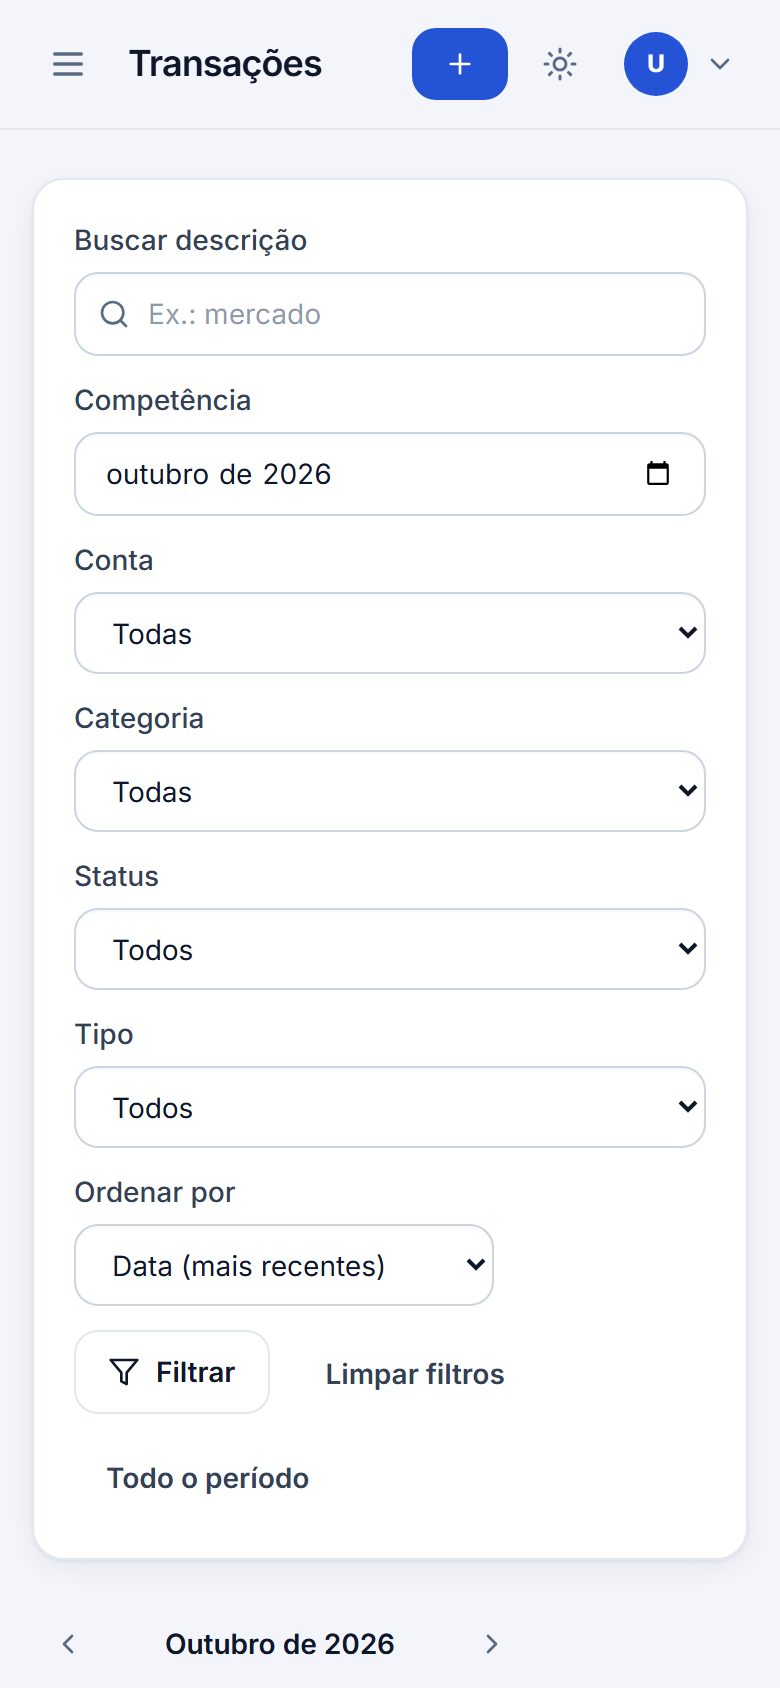
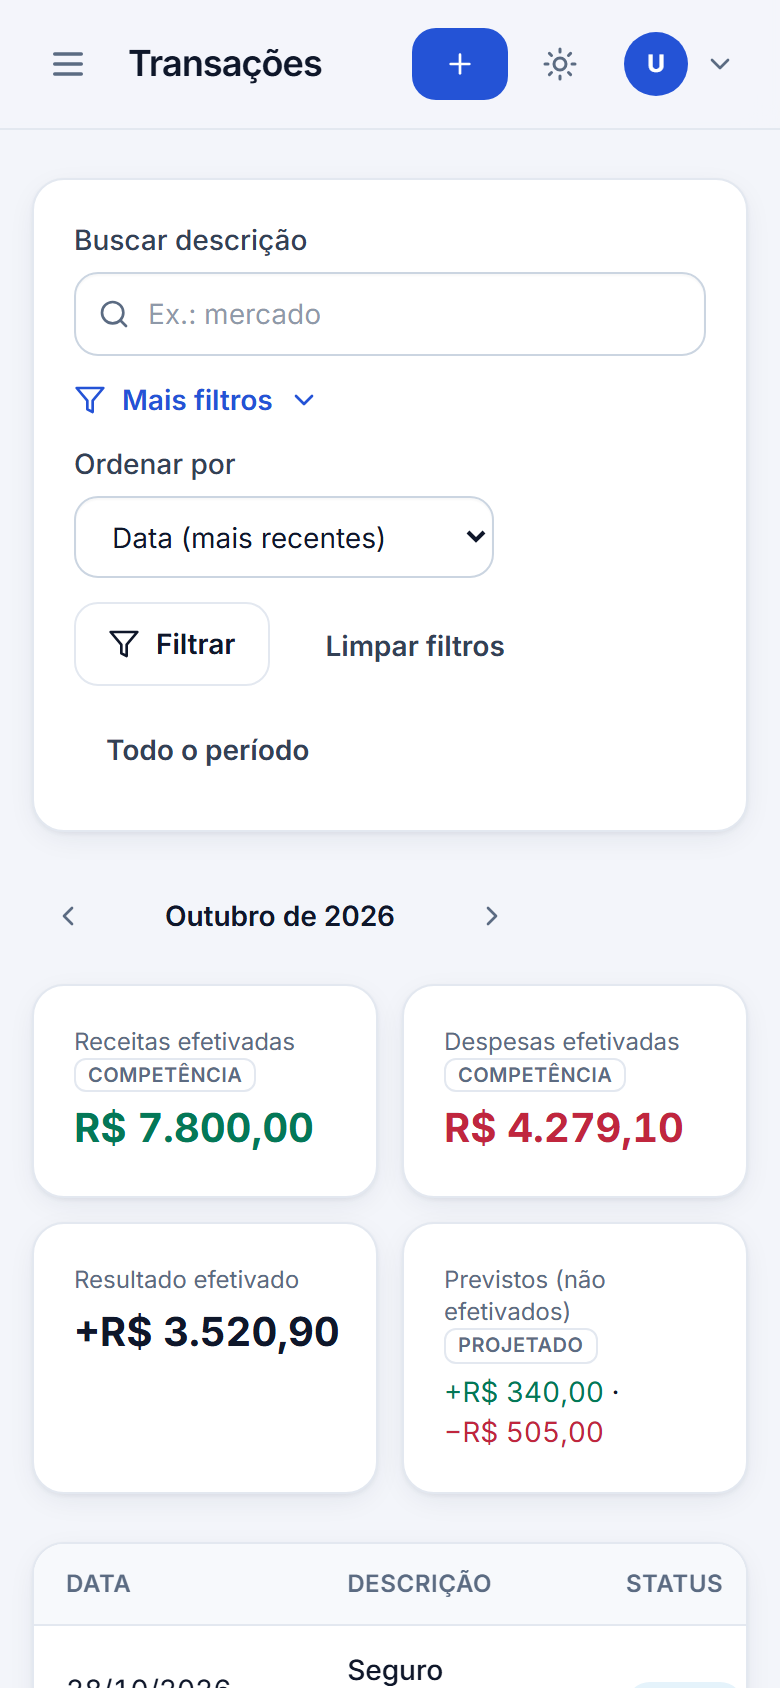
Critérios de aceitação verificados: e2e de recuperação de senha, varredura de links, filtros recolhíveis no mobile, healthcheck do scheduler

diff --git a/app/templates/partials/transactions/list.html b/app/templates/partials/transactions/list.html
@@ -15,7 +15,7 @@
     <span class="htmx-indicator text-xs text-muted" aria-hidden="true">Atualizando…</span>
   </div>
 
-  <section class="mb-6 grid gap-4 sm:grid-cols-2 xl:grid-cols-4" aria-label="Totalizadores do filtro">
+  <section class="mb-6 grid grid-cols-2 gap-3 sm:gap-4 xl:grid-cols-4" aria-label="Totalizadores do filtro">
     <div class="card card-pad"><p class="text-xs text-muted">Receitas efetivadas {{ regime("competencia") }}</p><p class="num mt-1 text-xl font-bold text-positive">{{ totals.income_settled|brl }}</p></div>
     <div class="card card-pad"><p class="text-xs text-muted">Despesas efetivadas {{ regime("competencia") }}</p><p class="num mt-1 text-xl font-bold text-negative">{{ totals.expense_settled|brl }}</p></div>
     <div class="card card-pad"><p class="text-xs text-muted">Resultado efetivado</p><p class="num mt-1 text-xl font-bold {{ 'text-negative' if totals.net_settled < 0 else 'text-fg' }}">{{ totals.net_settled|brl(True) }}</p></div>

diff --git a/app/templates/pages/transactions/index.html b/app/templates/pages/transactions/index.html
@@ -17,6 +17,9 @@
       <input id="flt-q" name="q" value="{{ raw.q or '' }}" class="input pl-9" placeholder="Ex.: mercado" maxlength="100" type="search">
     </div>
   </div>
+  <details class="group sm:col-span-2 xl:col-span-4" open data-collapse-mobile>
+    <summary class="flex cursor-pointer list-none items-center gap-2 text-sm font-semibold text-primary sm:hidden">{{ icon("filter") }} Mais filtros {{ icon("chevron-down", "size-4 transition group-open:rotate-180") }}</summary>
+    <div class="mt-3 grid gap-3 sm:mt-0 sm:grid-cols-2 xl:grid-cols-4">
   <div>
     <label class="label" for="flt-month">Competência</label>
     <input id="flt-month" name="month" type="month" class="input" value="{{ month.iso() if month else '' }}">
@@ -51,6 +54,8 @@
       </select>
     </div>
   </div>
+    </div>
+  </details>
   <div class="flex flex-wrap items-end gap-3 sm:col-span-2 xl:col-span-4">
     <div>
       <label class="label" for="flt-sort">Ordenar por</label>

diff --git a/app/static/js/app.js b/app/static/js/app.js
@@ -269,6 +269,10 @@
 
   function initAll(root) { syncToggles(root); initCharts(root); }
   document.addEventListener("DOMContentLoaded", () => {
+    // Filtros avançados recolhidos em telas pequenas (abertos no desktop).
+    if (window.matchMedia("(max-width: 639px)").matches) {
+      document.querySelectorAll("details[data-collapse-mobile]").forEach((d) => d.removeAttribute("open"));
+    }
     initAll(document);
     const flash = document.getElementById("flash");
     if (flash) toast(flash.content.textContent.trim(), flash.dataset.kind);

diff --git a/tests/e2e/test_smoke.py b/tests/e2e/test_smoke.py
@@ -26,7 +26,7 @@ pytestmark = [
 ]
 
 
-def _verification_link(email: str, timeout: float = 15) -> str:
+def _link_from_mail(email: str, path: str, timeout: float = 15) -> str:
     deadline = time.monotonic() + timeout
     while time.monotonic() < deadline:
         with urllib.request.urlopen(
@@ -38,11 +38,11 @@ def _verification_link(email: str, timeout: float = 15) -> str:
                 f"{MAILPIT_URL}/api/v1/message/{messages[0]['ID']}", timeout=5
             ) as resp:
                 body = json.loads(resp.read())["Text"]
-            match = re.search(r"(https?://\S+/verificar-email\?token=[A-Za-z0-9_-]+)", body)
+            match = re.search(r"(https?://\S+" + re.escape(path) + r"\?token=[A-Za-z0-9_-]+)", body)
             if match:
                 return match.group(1)
         time.sleep(0.5)
-    raise AssertionError("e-mail de verificação não chegou ao Mailpit")
+    raise AssertionError(f"e-mail com {path} não chegou ao Mailpit")
 
 
 def test_register_verify_login_and_register_expense() -> None:
@@ -68,7 +68,9 @@ def test_register_verify_login_and_register_expense() -> None:
         page.click("button[type=submit]")
         expect(page.get_by_text("Verifique sua caixa de entrada")).to_be_visible()
 
-        link = _verification_link(email).replace("http://localhost:8000", BASE_URL or "")
+        link = _link_from_mail(email, "/verificar-email").replace(
+            "http://localhost:8000", BASE_URL or ""
+        )
         page.goto(link)
         page.click("button[type=submit]")
         expect(page.get_by_text("E-mail confirmado")).to_be_visible()
@@ -107,3 +109,66 @@ def test_register_verify_login_and_register_expense() -> None:
         expect(page.get_by_text("R$ 876,55").first).to_be_visible()
         browser.close()
     assert not console_errors, console_errors
+
+
+def test_password_reset_via_smtp_revokes_session_and_token_is_single_use() -> None:
+    from playwright.sync_api import expect, sync_playwright
+
+    email = f"e2e-reset-{uuid.uuid4().hex[:8]}@example.com"
+    old_password = "Senha-Antiga-" + uuid.uuid4().hex[:8]
+    new_password = "Senha-Nova-" + uuid.uuid4().hex[:8]
+    with sync_playwright() as p:
+        browser = p.chromium.launch()
+        page = browser.new_page(locale="pt-BR")
+        page.goto(f"{BASE_URL}/cadastro")
+        page.fill("#f-full_name", "Teste Recuperação")
+        page.fill("#f-email", email)
+        page.fill("#f-password", old_password)
+        page.fill("#f-password_confirm", old_password)
+        page.check("input[name=accept_privacy]")
+        page.click("button[type=submit]")
+        page.goto(_link_from_mail(email, "/verificar-email"))
+        page.click("button[type=submit]")
+
+        page.goto(f"{BASE_URL}/recuperar-senha")
+        page.fill("#f-email", email)
+        page.click("button[type=submit]")
+        expect(page.get_by_text("Se houver uma conta com esse e-mail")).to_be_visible()
+        reset_link = _link_from_mail_newest(email, "/redefinir-senha")
+        page.goto(reset_link)
+        page.fill("#f-password", new_password)
+        page.fill("#f-password_confirm", new_password)
+        page.click("button[type=submit]")
+        expect(page.get_by_text("Senha redefinida")).to_be_visible()
+
+        page.goto(reset_link)  # token de uso único
+        expect(page.get_by_text("Link inválido")).to_be_visible()
+
+        page.goto(f"{BASE_URL}/login")
+        page.fill("#f-email", email)
+        page.fill("#f-password", old_password)
+        page.click("button[type=submit]")
+        expect(page.get_by_text("E-mail ou senha inválidos.")).to_be_visible()
+        page.fill("#f-password", new_password)
+        page.click("button[type=submit]")
+        page.wait_for_url("**/app")
+        browser.close()
+
+
+def _link_from_mail_newest(email: str, path: str, timeout: float = 15) -> str:
+    deadline = time.monotonic() + timeout
+    while time.monotonic() < deadline:
+        with urllib.request.urlopen(
+            f"{MAILPIT_URL}/api/v1/search?query=to:{email}", timeout=5
+        ) as resp:
+            messages = json.loads(resp.read())["messages"]
+        for message in messages:  # mais recente primeiro
+            with urllib.request.urlopen(
+                f"{MAILPIT_URL}/api/v1/message/{message['ID']}", timeout=5
+            ) as resp:
+                body = json.loads(resp.read())["Text"]
+            match = re.search(r"(https?://\S+" + re.escape(path) + r"\?token=[A-Za-z0-9_-]+)", body)
+            if match:
+                return match.group(1)
+        time.sleep(0.5)
+    raise AssertionError(f"e-mail com {path} não chegou ao Mailpit")

diff --git a/tests/e2e/conftest.py b/tests/e2e/conftest.py
@@ -1,0 +1,23 @@
+"""Isolamento dos testes ponta a ponta: zera os contadores de rate limit do Redis de DEV.
+
+Sem isso, execuções repetidas esbarram (corretamente) no limite de cadastros por IP.
+"""
+
+from __future__ import annotations
+
+import os
+from collections.abc import Iterator
+
+import pytest
+
+
+@pytest.fixture(autouse=True)
+def _reset_rate_limits() -> Iterator[None]:
+    url = os.environ.get("E2E_REDIS_URL", "redis://127.0.0.1:6379/0")
+    if os.environ.get("E2E_BASE_URL"):
+        import redis
+
+        client = redis.Redis.from_url(url)
+        for key in client.scan_iter("rl:*"):
+            client.delete(key)
+    yield

diff --git a/PLANO_EXECUCAO.md b/PLANO_EXECUCAO.md
@@ -97,7 +97,44 @@ Legenda: `[x]` concluído e validado por teste/execução · `[~]` parcial · `[
 Todas as fases concluídas e validadas: 255 testes + 1 e2e (Playwright) aprovados; ruff e mypy --strict limpos;
 imagem Docker validada em modo produção; backup/restore testados; documentação em README.md e docs/.
 
-## 4. Limitações conhecidas / bloqueios
+## 4. Critérios de aceitação final (seção 31) — verificados em 2026-10-19
+
+| Critério | Status | Evidência |
+|---|---|---|
+| A aplicação inicia corretamente | ✅ | `docker compose up -d` → web `healthy`; `/health/ready` ok (banco + Redis); modo produção validado em container |
+| O banco é criado pelas migrations | ✅ | `tests/conftest.py` recria o schema via Alembic a cada execução; upgrade → downgrade → upgrade em banco vazio |
+| Usuários criam contas e autenticam | ✅ | `integration/test_auth_flow.py`; e2e `test_register_verify_login_and_register_expense` |
+| Recuperação de senha funciona no ambiente configurado | ✅ | e2e `test_password_reset_via_smtp_revokes_session_and_token_is_single_use` (SMTP real → Mailpit) |
+| Isolamento de dados testado | ✅ | `security/test_access_control.py` (web), `integration/test_api.py` (API), relatórios, importação e cartões |
+| Contas financeiras funcionam | ✅ | `integration/test_ledger_rules.py`, `test_finance_web.py` |
+| Receitas e despesas alteram o saldo corretamente | ✅ | `test_settled_income_and_expense_change_balance` + reconciliação do saldo com o histórico |
+| Transferências são atômicas | ✅ | `test_transfer_insufficient_funds_rolls_back_both_legs`, concorrência de transferências opostas |
+| Estornos mantêm consistência | ✅ | `test_cancel_settled_reverses_and_keeps_history`, `test_transfer_cancel_reverts_both_sides`, estorno de cartão |
+| Categorias funcionam | ✅ | `integration/test_categories.py` |
+| Orçamentos com cálculos corretos | ✅ | `integration/test_analytics_budgets.py` (80/100%, previsto separado, estorno, parcelas de cartão) |
+| Dashboard com dados reais | ✅ | `test_dashboard_renders_with_data_and_charts`; screenshots reais com o seed |
+| Filtros do dashboard funcionam | ✅ | parcial HTMX por mês/conta/categoria testado; filtro de conta alheia ignorado/404 |
+| Metas funcionam | ✅ | `integration/test_goals_recurrences.py` |
+| Recorrências não geram duplicatas | ✅ | `test_generation_is_idempotent`, `concurrency::test_concurrent_recurrence_jobs_never_duplicate` |
+| Importação CSV com prévia e validação | ✅ | `integration/test_imports_reports.py` (inclui fluxo web completo e confirmação concorrente) |
+| Relatórios funcionam | ✅ | 8 relatórios em HTML/CSV/PDF/impressão testados; exportações percorridas pela varredura |
+| Previsão de caixa consistente | ✅ | `test_forecast_*` (saldo realizado, vencimento, transferências, faturas, incerteza) |
+| Cartões e parcelamentos funcionam | ✅ | `integration/test_cards.py` (14 testes) + concorrência de pagamento e limite |
+| Pagamento de fatura não duplica despesa | ✅ | `test_payment_reduces_cash_not_expense_and_frees_limit` |
+| Operações importantes auditadas | ✅ | eventos de login, transação, estorno, transferência, importação, pagamento, orçamento e conta; trigger append-only testado |
+| Principais testes automatizados passam | ✅ | 255 passed (+2 e2e passed); ruff e mypy --strict limpos |
+| A aplicação é responsiva | ✅ | screenshots mobile (390 px) de dashboard e transações; sidebar em drawer; filtros recolhíveis |
+| Docker Compose inicia os serviços | ✅ | postgres, db-test, redis, mailpit, migrate (exit 0), web (healthy), scheduler |
+| Documentação suficiente para terceiros | ✅ | README + docs/ (ARCHITECTURE, DATA_MODEL, BUSINESS_RULES, SECURITY, API, DEPLOYMENT, TESTING, ADRs) |
+| Sem credenciais reais no repositório | ✅ | `.env` fora do Git; varredura de segredos e de valores do `.env` local no repositório: nenhum encontrado |
+| Sem funcionalidades obrigatórias simuladas | ✅ | varredura de 308 páginas/links autenticados sem nenhum erro; único conteúdo ilustrativo (card da landing) é rotulado como tal |
+
+### Itens incompletos (fora do alcance deste ambiente)
+
+- **CI no GitHub Actions:** workflow criado (`.github/workflows/ci.yml`), mas não executado — o repositório ainda não foi publicado. As mesmas etapas foram executadas localmente.
+- **Deploy em servidor Linux com HTTPS real:** `docker-compose.prod.yml` + Caddy prontos e a imagem validada em modo produção localmente; falta um servidor e um domínio para o certificado Let's Encrypt.
+
+## 5. Limitações conhecidas / bloqueios
 
 - Tailwind standalone (Bun) falha com `-o` em caminhos não ASCII ("ç") → compilação via stdout.
 - Docker Compose (bake) falha ao construir vários serviços em caminho não ASCII → imagem única `finpilot:dev`.

diff --git a/docs/TESTING.md b/docs/TESTING.md
@@ -29,14 +29,15 @@ E2E_BASE_URL=http://localhost:8000 MAILPIT_URL=http://localhost:8025 uv run pyte
 | `tests/integration` | fluxos de autenticação e conta, regras do núcleo financeiro, orçamentos/analytics/previsão, metas, recorrências, importação, relatórios/exportações, cartões, API REST, telas HTMX, logging | 141 |
 | `tests/security` | CSRF (inclusive token lido do HTML), rate limiting, expiração de sessões e tokens, cabeçalhos, open redirect, IDOR/BOLA em web e API, mass assignment, SQL injection, XSS, varredura de rotas protegidas | 39 |
 | `tests/concurrency` | despesas simultâneas, transferências opostas, chave de idempotência repetida, confirmação duplicada de importação, gerador de recorrências simultâneo, pagamento duplicado de fatura, compras simultâneas contra o limite | 8 |
-| `tests/e2e` | Playwright: cadastro → verificação via Mailpit → login → conta → despesa → dashboard, sem erros de console | 1 |
+| `tests/e2e` | Playwright: (1) cadastro → verificação via Mailpit → login → conta → despesa → dashboard, sem erros de console; (2) recuperação de senha por SMTP real, token de uso único e senha antiga invalidada | 2 |
 
 ## Resultado da última execução local
 
 Executado em 2026-10-19 (Windows 11, Python 3.12.7, PostgreSQL 16 em Docker):
 
-* `uv run pytest` → **255 passed, 1 skipped** (o e2e é ignorado sem `E2E_BASE_URL`).
-* `pytest tests/e2e -m e2e` contra a stack Docker → **1 passed**.
+* `uv run pytest` → **255 passed, 2 skipped** (os e2e são ignorados sem `E2E_BASE_URL`).
+* `pytest tests/e2e -m e2e` contra a stack Docker → **2 passed** (executado duas vezes seguidas; os contadores de rate limit do Redis de desenvolvimento são zerados antes de cada teste).
+* Varredura automática de 308 páginas, links e exportações autenticados do usuário demo: todas responderam 200.
 * Cobertura (linhas): `app/services` **90,6%**, `app/domain` **96,1%**, total `app` **85,0%**.
 * `ruff check` e `ruff format --check`: sem pendências · `mypy --strict`: sem erros (89 arquivos).
 

diff --git a/docs/POST_LINKEDIN.md b/docs/POST_LINKEDIN.md
@@ -69,10 +69,10 @@ As 77 regras estão rastreadas até o código e o teste correspondentes em `docs
 > 🔒 **Segurança aplicada:** Argon2id, sessões server-side, CSRF em formulários, HTMX e API, CSP estrita sem JavaScript inline, rate limiting e auditoria imutável. Cada controle tem teste automatizado.
 > ⚖ **Consistência financeira:** valores em centavos, locks no banco e idempotência. Testes com operações simultâneas garantem que o saldo nunca fica inconsistente.
 > 💳 **Regras de verdade:** a parcela é despesa na competência da fatura e o pagamento é só saída de caixa. Assim não há dupla contagem.
-> ✅ **Qualidade:** 256 testes automatizados (unitários, integração com PostgreSQL real, segurança, concorrência e ponta a ponta com Playwright), mypy em modo estrito e CI no GitHub Actions.
+> ✅ **Qualidade:** 257 testes automatizados (unitários, integração com PostgreSQL real, segurança, concorrência e ponta a ponta com Playwright), mypy em modo estrito e CI no GitHub Actions.
 >
 > Código, arquitetura e decisões técnicas no GitHub: [link do repositório]
 >
 > #Python #FastAPI #PostgreSQL #HTMX #DesenvolvimentoWeb #SegurançaDaInformação #FullStack
 
-*Os números citados (256 testes; cobertura de 90,6% em services e 96,1% em domain) vêm da execução local registrada em `docs/TESTING.md`. Atualize-os se o projeto mudar.*
+*Os números citados (257 testes; cobertura de 90,6% em services e 96,1% em domain) vêm da execução local registrada em `docs/TESTING.md`. Atualize-os se o projeto mudar.*

diff --git a/README.md b/README.md
@@ -134,7 +134,7 @@ make cov         # falha abaixo de 80% em services/domain
 make check       # lint + mypy --strict + testes (o mesmo que o CI)
 ```
 
-Última execução local: **255 testes aprovados** (mais 1 ponta a ponta com Playwright, executado à parte e aprovado). Cobertura de **90,6%** em `app/services` e **96,1%** em `app/domain`. Detalhes em [docs/TESTING.md](docs/TESTING.md).
+Última execução local: **255 testes aprovados** (mais 2 ponta a ponta com Playwright, executados à parte e aprovados). Cobertura de **90,6%** em `app/services` e **96,1%** em `app/domain`. Detalhes em [docs/TESTING.md](docs/TESTING.md).
 
 ## Documentação da API
 
